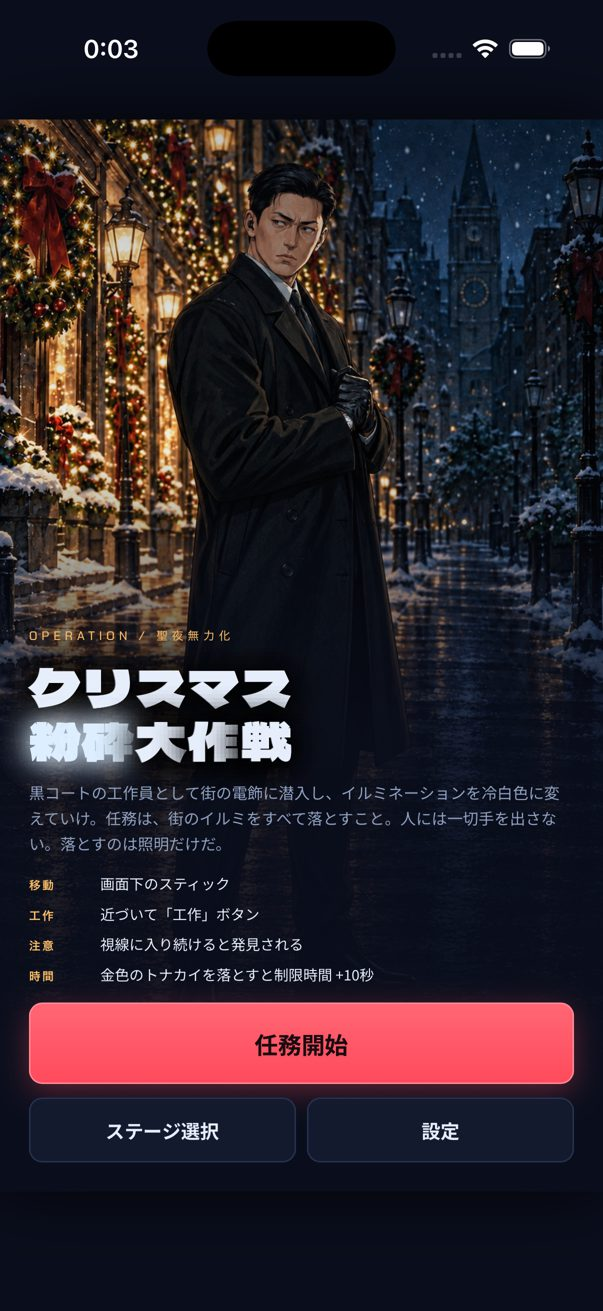
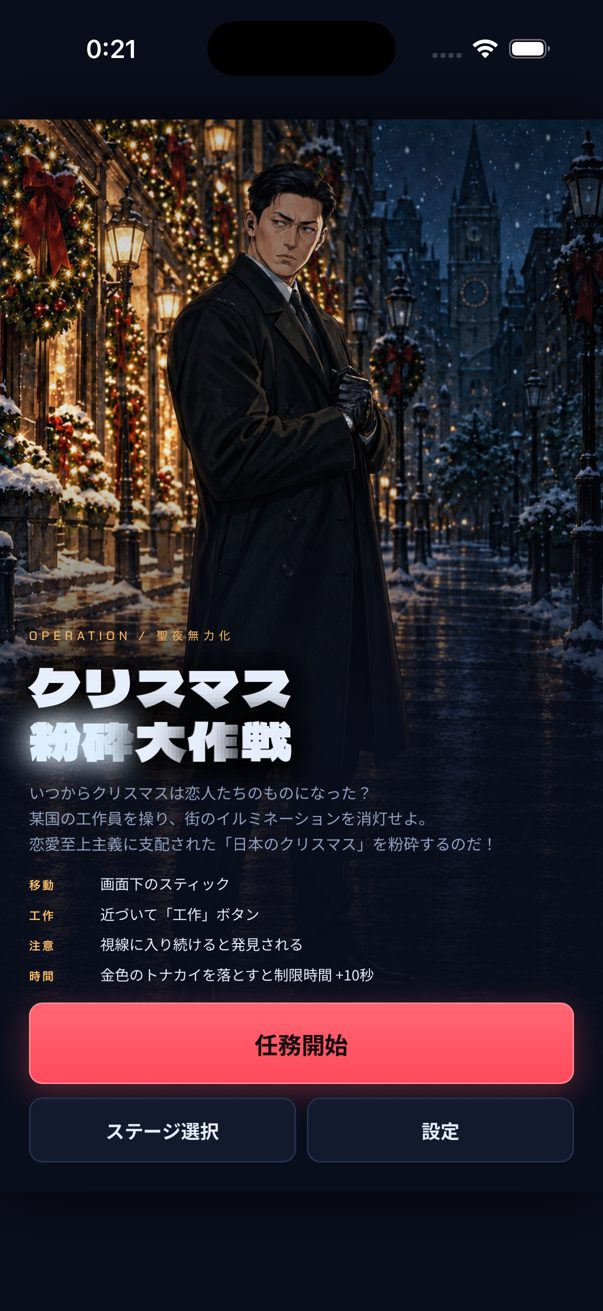
Bundle IDを jp.kmccreativelab.christmassabotage に確定（iOSとCapacitor設定）
android/ のアプリIDは変更していない。docs/ios/README.md に記録。

diff --git a/docs/ios/README.md b/docs/ios/README.md
@@ -13,11 +13,11 @@
 | 起動画面 | `Splash.imageset` の3ファイルを、ゲームの背景色 `#0A0E1C` の無地 2732×2732 に置き換え。`LaunchScreen.storyboard` の背景色も `#0A0E1C` に（白い画面が出ないように） |
 | Info.plist | `ITSAppUsesNonExemptEncryption = false` を追加。対応する向きを Portrait のみに（iPhone・iPad の両方のキー） |
 | Xcodeの設定 | `MARKETING_VERSION = 1.0.0`、`CURRENT_PROJECT_VERSION = 1`、`TARGETED_DEVICE_FAMILY = 1`（iPhoneのみ）。表示名は `capacitor.config.json` の「クリスマス粉砕大作戦」が `CFBundleDisplayName` に入っている |
-| Bundle ID | `com.kmc48.christmassabotage`（**仮**。Androidと同じ値。生成時の値のまま） |
+| Bundle ID | `jp.kmccreativelab.christmassabotage`（2026-10-15 確定。Xcode の `PRODUCT_BUNDLE_IDENTIFIER` と `capacitor.config.json` の `appId`） |
 | 最低iOS | 15.0（Capacitor 8 の既定） |
 | `package.json` | scripts に `sync:ios`、`open:ios` を追加 |
 
-`game/` と `android/` は変更していません。
+`android/` は変更していません。`game/` はタイトル画面の説明文（`#titleLead`）だけをユーザーの指示で変更しました。
 
 ## 2. 実行したコマンド
 
@@ -64,8 +64,8 @@ xcodebuild -project ios/App/App.xcodeproj -scheme App -configuration Debug \
 ## 4. 残り・既知の問題
 
 - **起動直後の約6秒の暗い画面**：`game/index.html` が Google Fonts を読み込んでいるためと考えられる。通信がない場合の時間は未確認。フォントの同梱（07指示書の G1）で解消する見込み。今回の決定事項により同梱はしていない。
-- **Bundle ID は仮**：App Store Connect に登録すると変えられない。確定したら Xcode の `PRODUCT_BUNDLE_IDENTIFIER`（Debug・Release の両方）と `capacitor.config.json` の `appId` を変える。Android 側（`android/app/build.gradle`）とそろえるかは別途決める。
-  - iOS の Bundle ID は英数字・ハイフン・ドットが使える。Android のアプリIDはハイフンが使えない（英数字・アンダースコア）。両方でそろえるなら区切りなし（例：`christmassabotage`）にする。
+- **Android のアプリIDがまだ古い**：Bundle ID を `jp.kmccreativelab.christmassabotage` に確定し、iOS と `capacitor.config.json` は変更済み。`android/app/build.gradle` の `namespace` と `applicationId` は `com.kmc48.christmassabotage` のまま（この作業では `android/` を変更しない決まりのため）。Windows 側でそろえる。
+  - iOS の Bundle ID はハイフンが使えるが、Android のアプリIDは使えないため、区切りなしにした。
 - 実機での確認（音、マナーモード、振動、記録の保存、中断と復帰、機内モード）は 07指示書の第4章に沿って行う。
 
 ## 5. この後の操作（Xcode）
